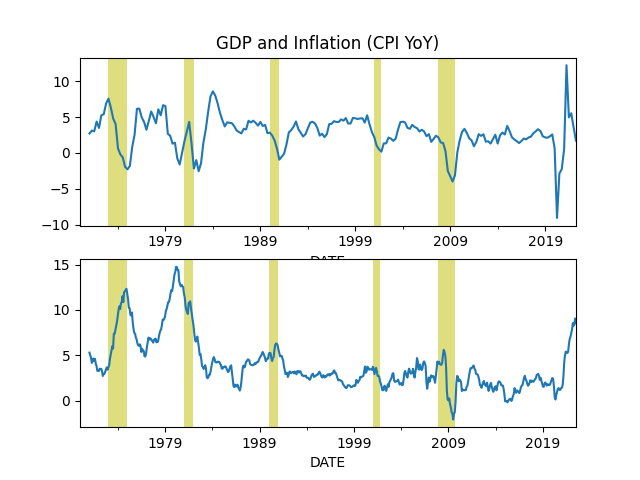
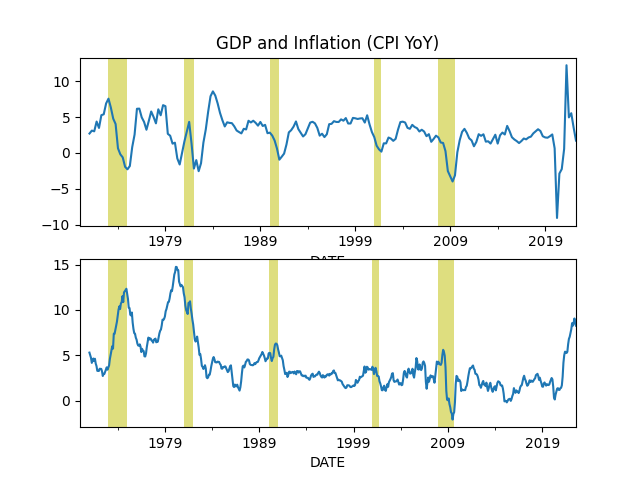
--

diff --git a/en/tweets/2022/util.py b/en/tweets/2022/util.py
@@ -25,12 +25,12 @@ def sm_two_plot_ukr_alt1(file1,file2):
     df[:, [1, 0]] = df[:, [0, 1]]
     sm.plot_line(df,color='green')
     
-def sm_plot_ukr_alt1(file,geo):
-    df = np.array(pd.read_csv('ukrdata/alt1-0828.csv',header=None))
+def sm_plot_ukr(file,geo):
+    df = np.array(pd.read_csv(file,header=None))
     df[:, [1, 0]] = df[:, [0, 1]]
     clat,clon=48, 37; zoom = 0.6
     sm.plot_countries(clat,clon,zoom,outcolor='lavenderblush')
-    sm.plot_region(df,color='red')
+    sm.plot_region(df,color='lightblue')
     eps = 0.1
     for i,(lat,lon) in enumerate(geo):
         plt.text(lon+eps,lat+eps,i+1)

diff --git a/en/2020/04/turkist-narrative-anatolia.md b/en/2020/04/turkist-narrative-anatolia.md
@@ -127,7 +127,22 @@ matters little. However the War of Independence caused the two people
 to demonize eachother, now they also need the other to be what they
 are so they can tell themselves fairy tales about hordes coming in
 from wherever causing terror in the lands therefore one must be
-on guard to protect the Greek nation at all times. 
+on guard to protect the Greek nation at all times.
+
+<a name='islamoturkist'/>
+
+- After the 80 fascist coup the narrative was expanded to include
+Islam. But the Islamoturkist Synthesis was also strategically crafted
+to fit the needs of the US, Brits and the outer alliance in
+general. In the 80s Islamist Mujaheddin was fighting in Afghanistan
+against the Soviets, religion was needed now, it was back en vogue in
+Pakistand. However this new synthesis increased the internal conflicts
+of the Turkist narrative even further. Founder Kemal ignored religion,
+the Turk was a shaman, now it was back, along with Ottomans and its
+Khalif. Older Turks brought up by the old system continued to believe
+in the Turkishness without religion, new ones pushed and pulled it
+into bizarre new directions. 
+
 
 References
 

diff --git a/en/2019/05/stats.md b/en/2019/05/stats.md
@@ -75,12 +75,12 @@ DATE
 2022-04-01   1.709777
                  inf
 DATE                
-2022-02-01  7.871064
 2022-03-01  8.542456
 2022-04-01  8.258629
 2022-05-01  8.581512
 2022-06-01  9.059758
 2022-07-01  8.524815
+2022-08-01  8.262693
 ```
 
 <a name='taylor'/>
